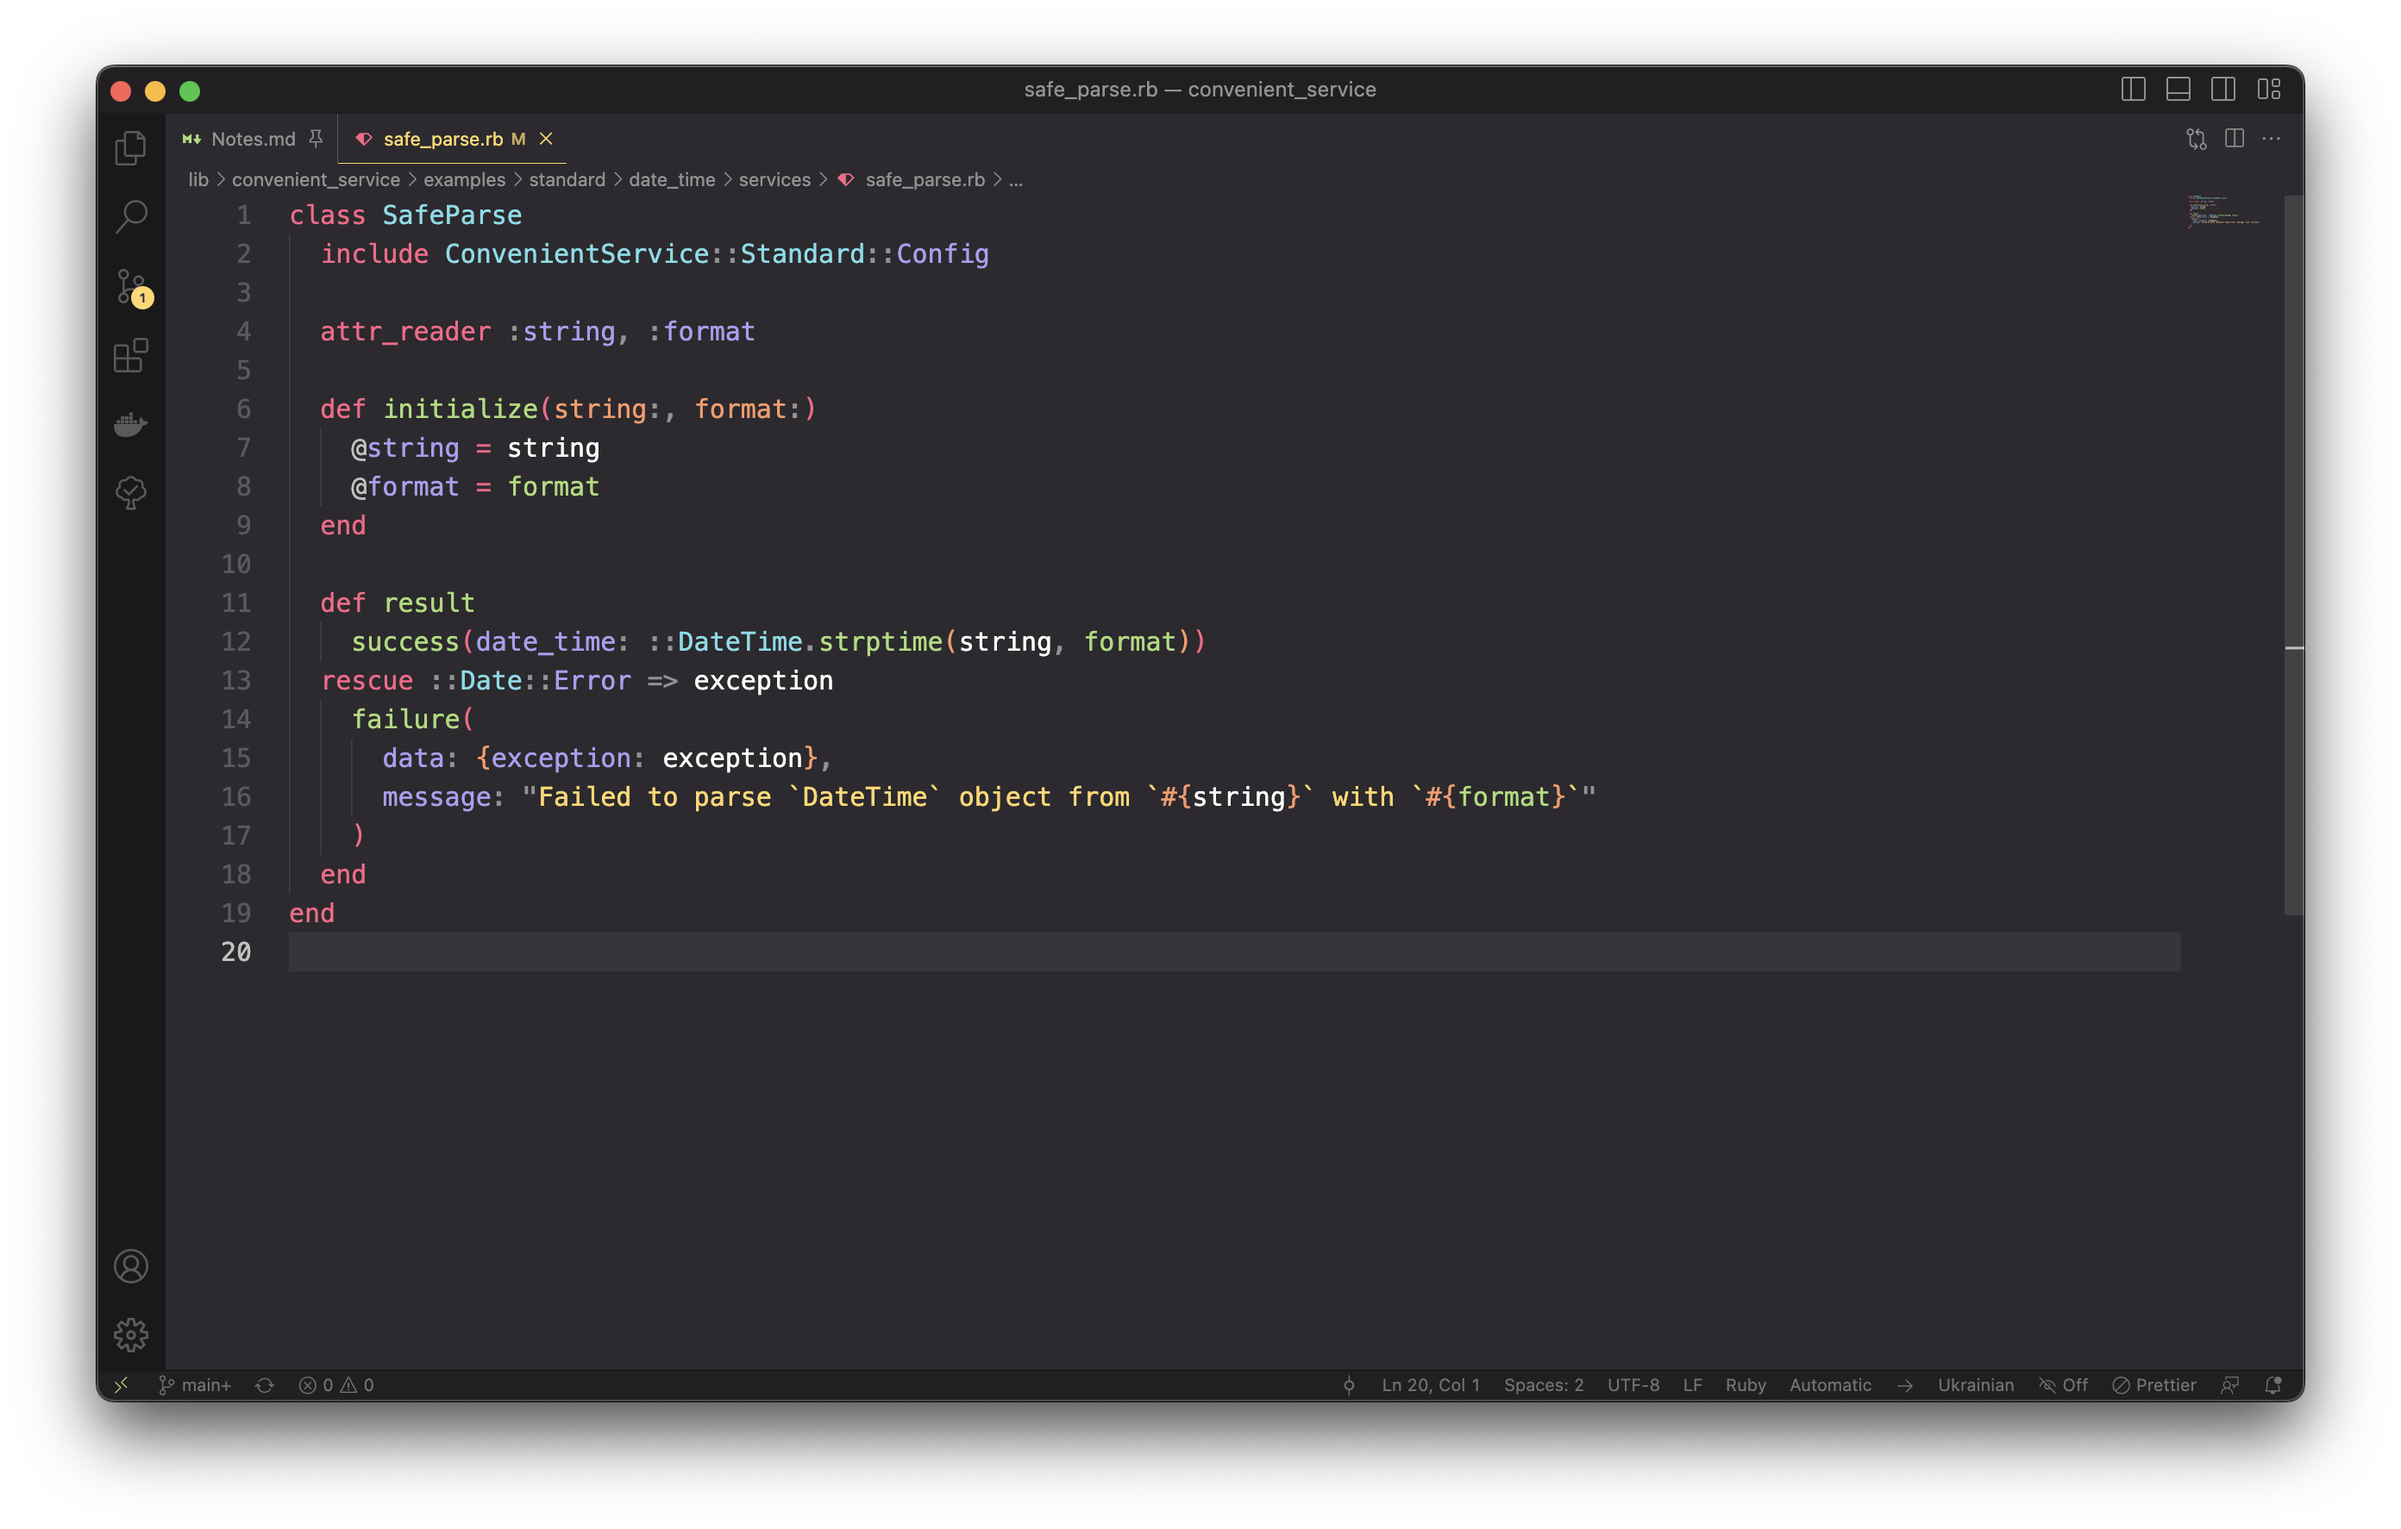
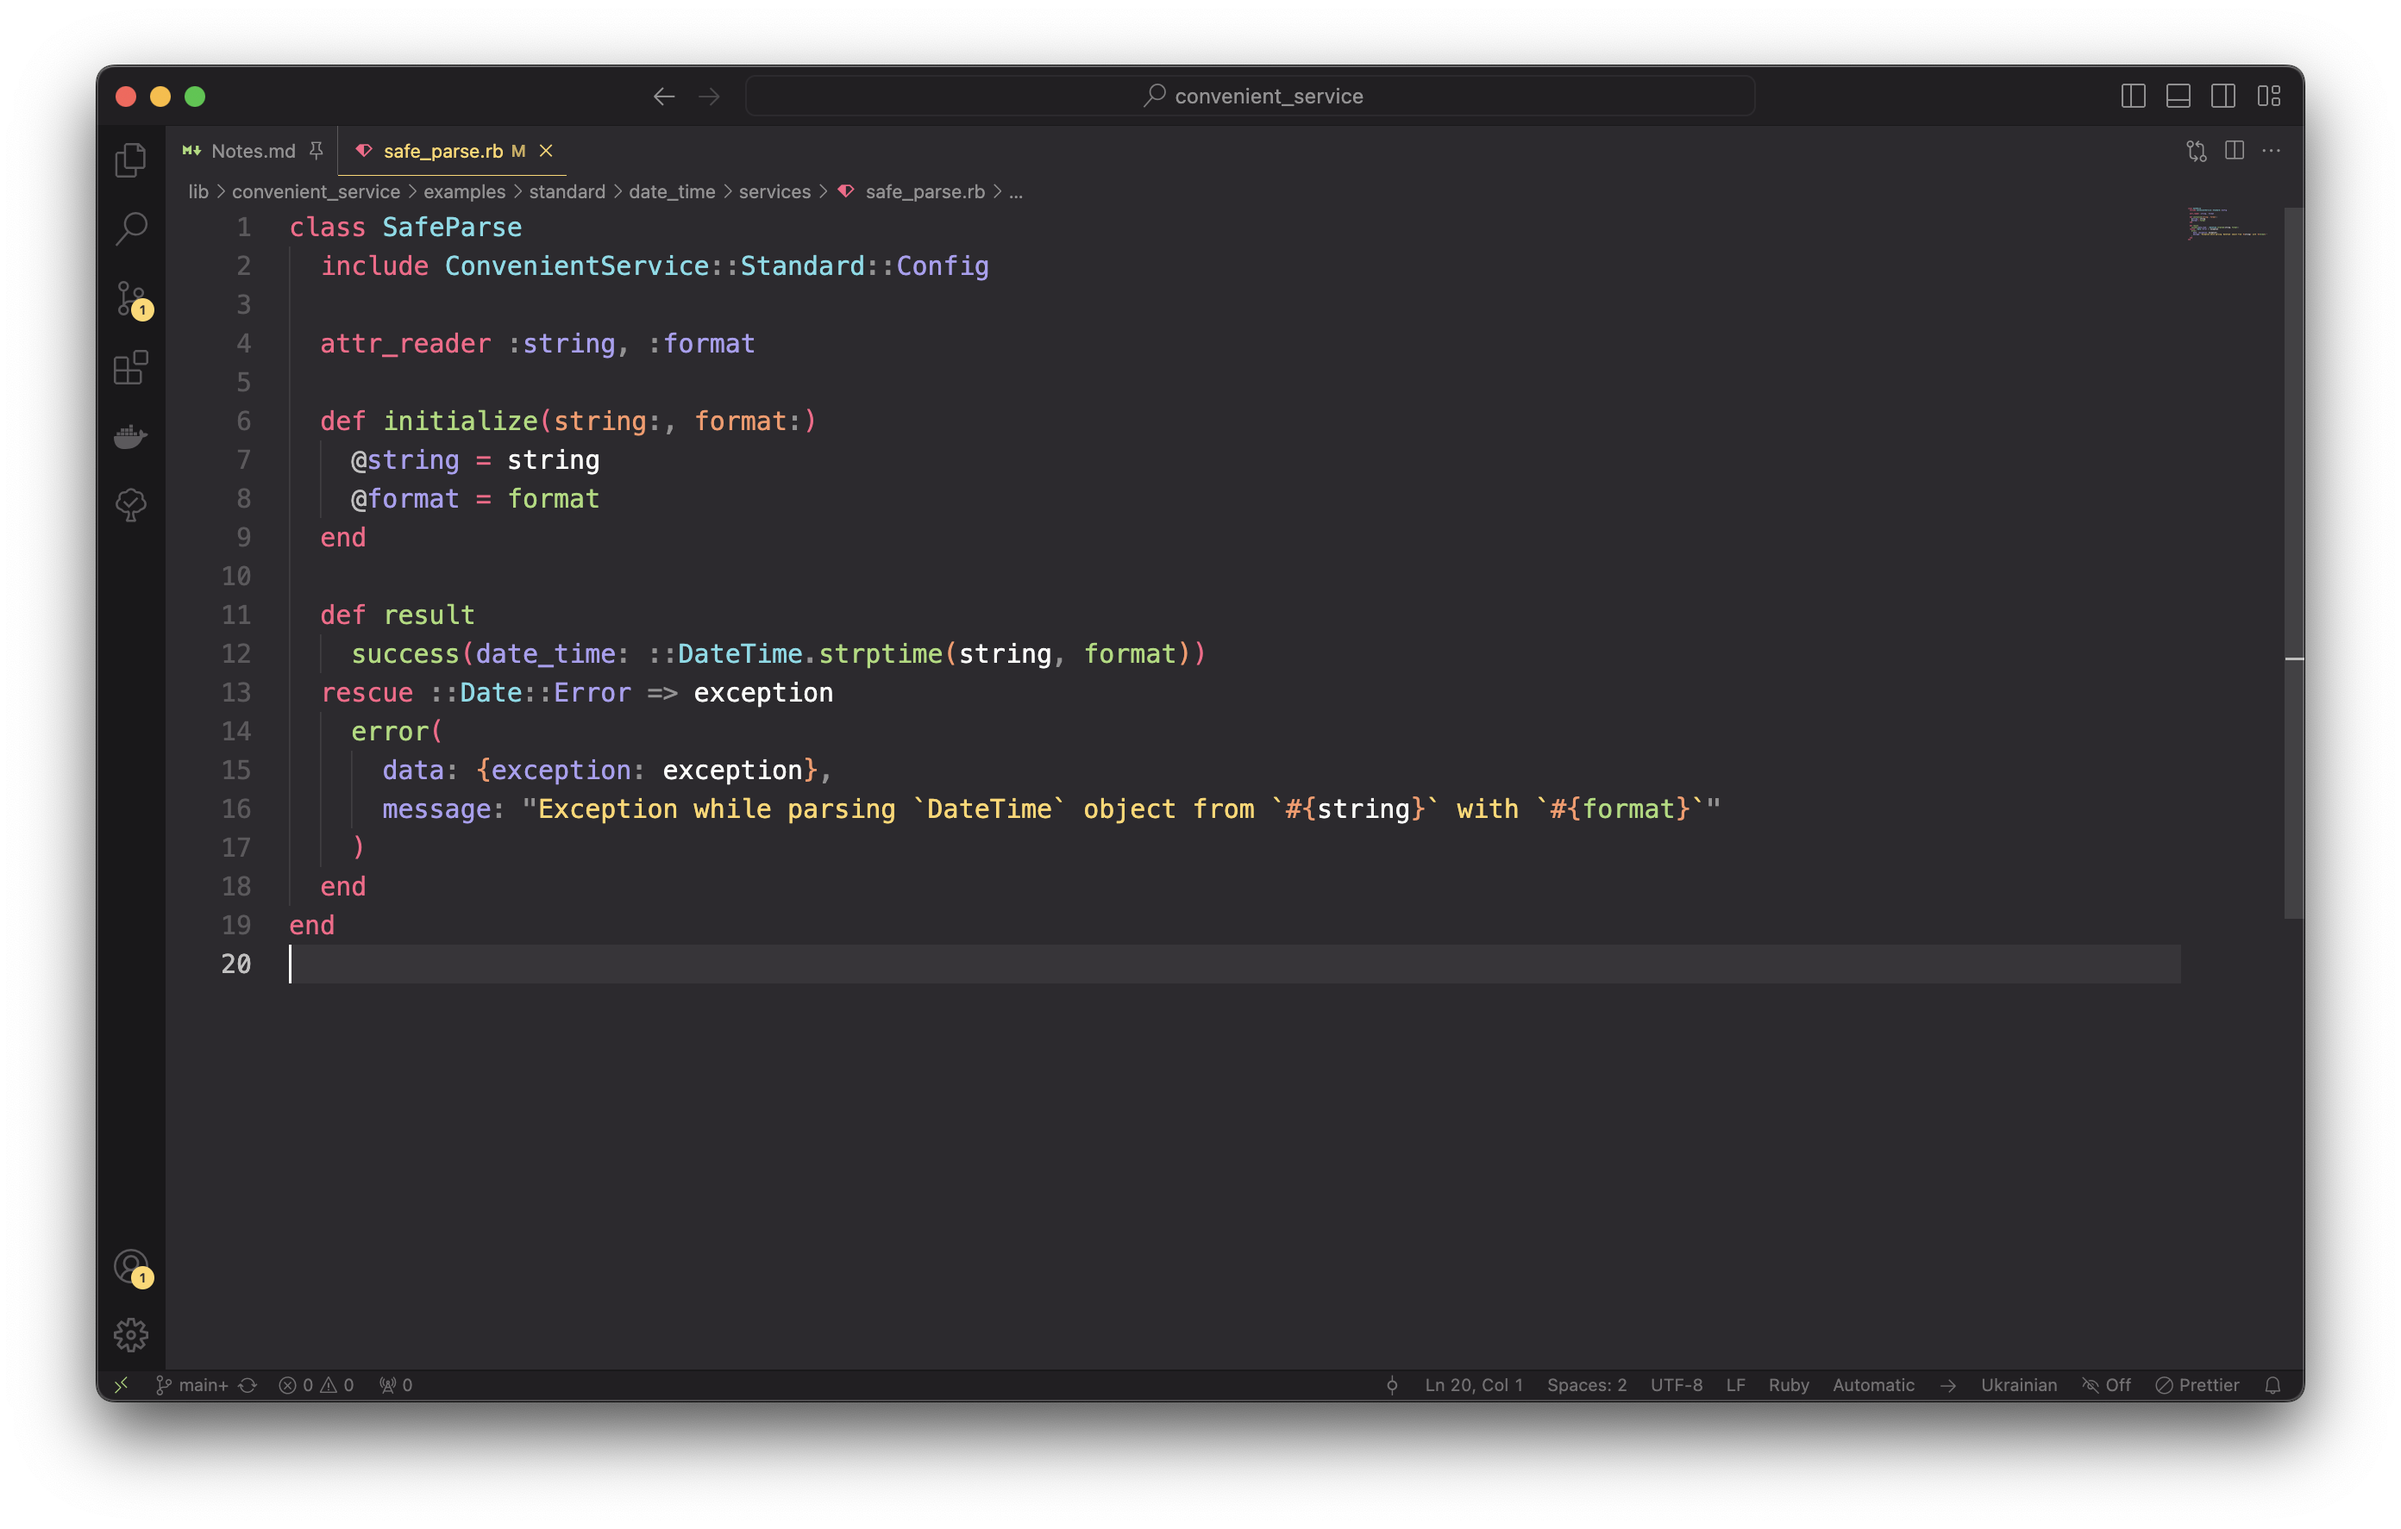
docs(all_in_one): use updated failure/error terminology

diff --git a/convenient_service/presentations/all_in_one/slides/convenient_service/4/unification.md b/convenient_service/presentations/all_in_one/slides/convenient_service/4/unification.md
@@ -116,34 +116,24 @@ result = service.result
 
 ---
 
-Results return [JSend](https://github.com/omniti-labs/jsend/blob/master/README.md)-inspired structs (1 / 2)
+Results return [JSend](https://github.com/omniti-labs/jsend/blob/master/README.md)-inspired <br> but NOT [JSend](https://github.com/omniti-labs/jsend/blob/master/README.md)-compatible structs
 
 ```ruby
 class AssertFileExists
   # ...
 
   def result
-    return failure(path: "Path is `nil`") if path.nil?
-    return failure(path: "Path is empty") if path.empty?
+    return error("Path is `nil`") if path.nil?
+    return error("Path is empty") if path.empty?
 
     if !::File.exist?(path)
-      return error("File with path `#{path}` does NOT exist")
+      return failure("File with path `#{path}` does NOT exist")
     end
 
     success
   end
 end
 ```
-
----
-
-Results return [JSend](https://github.com/omniti-labs/jsend/blob/master/README.md)-inspired structs (2 / 2)
-
-<div class="image">
-  <img src="slides/convenient_service/4/unification/jsend_result.png">
-
-  <a class="sticker" href="https://github.com/omniti-labs/jsend/blob/master/README.md" target="_blank"></a>
-</div>
 
 ---
 
@@ -154,11 +144,11 @@ class AssertFileExists
   # ...
 
   def result
-    return failure(path: "Path is `nil`") if path.nil?
-    return failure(path: "Path is empty") if path.empty?
+    return error("Path is `nil`") if path.nil?
+    return error("Path is empty") if path.empty?
 
     if !::File.exist?(path)
-      return error("File with path `#{path}` does NOT exist")
+      return failure("File with path `#{path}` does NOT exist")
     end
 
     success
@@ -170,18 +160,18 @@ end
 
 ---
 
-`error` - when service goal is NOT achieved
+`failure` - when service goal is NOT achieved <br> due to expected reason
 
 ```ruby [1,9]
 class AssertFileExists
   # ...
 
   def result
-    return failure(path: "Path is `nil`") if path.nil?
-    return failure(path: "Path is empty") if path.empty?
+    return error("Path is `nil`") if path.nil?
+    return error("Path is empty") if path.empty?
 
     if !::File.exist?(path)
-      return error("File with path `#{path}` does NOT exist")
+      return failure("File with path `#{path}` does NOT exist")
     end
 
     success
@@ -193,19 +183,18 @@ end
 
 ---
 
-`failure` - when service goal is NOT achieved due to
-invalid input
+`error` - when service goal is NOT achieved <br> due to invalid input or exception
 
 ```ruby [1,5-6]
 class AssertFileExists
   # ...
 
   def result
-    return failure(path: "Path is `nil`") if path.nil?
-    return failure(path: "Path is empty") if path.empty?
+    return error("Path is `nil`") if path.nil?
+    return error("Path is empty") if path.empty?
 
     if !::File.exist?(path)
-      return error("File with path `#{path}` does NOT exist")
+      return failure("File with path `#{path}` does NOT exist")
     end
 
     success
@@ -234,11 +223,11 @@ class AssertFileExists
   # ...
 
   def result
-    return failure(path: "Path is `nil`") if path.nil?
-    return failure(path: "Path is empty") if path.empty?
+    return error("Path is `nil`") if path.nil?
+    return error("Path is empty") if path.empty?
 
     if !::File.exist?(path)
-      return error("File with path `#{path}` does NOT exist")
+      return failure("File with path `#{path}` does NOT exist")
     end
 
     success
@@ -308,8 +297,8 @@ class ReadFileContent
   private
 
   def validate_path
-    return failure(path: "Path is `nil`") if path.nil?
-    return failure(path: "Path is empty") if path.empty?
+    return error("Path is `nil`") if path.nil?
+    return error("Path is empty") if path.empty?
 
     success
   end
@@ -342,8 +331,8 @@ class ReadFileContent
   private
 
   def validate_path
-    return failure(path: "Path is `nil`") if path.nil?
-    return failure(path: "Path is empty") if path.empty?
+    return error("Path is `nil`") if path.nil?
+    return error("Path is empty") if path.empty?
 
     success
   end
@@ -376,8 +365,8 @@ class ReadFileContent
   private
 
   def validate_path
-    return failure(path: "Path is `nil`") if path.nil?
-    return failure(path: "Path is empty") if path.empty?
+    return error("Path is `nil`") if path.nil?
+    return error("Path is empty") if path.empty?
 
     success
   end
@@ -427,7 +416,7 @@ All steps are successful - service returns its last step
 
 ---
 
-Any step is not successful - service returns that step
+Any step is NOT successful - service returns that step
 
 <div class="image">
   <img src="slides/convenient_service/4/unification/not_successful_step_result.png">
@@ -437,7 +426,7 @@ Any step is not successful - service returns that step
 
 ---
 
-Not successful step results are bubbled to the top
+NOT successful step results are bubbled to the top
 
 <div class="image">
   <img src="slides/convenient_service/4/unification/not_successful_step_result_bubbling.png">
@@ -566,7 +555,7 @@ Step definitions are converted to the service calls <br> by the rules defined in
 
 ---
 
-Steps can be tried by `try` option
+Steps can be tried by `fallback` option
 
 <div class="image">
   <img src="slides/convenient_service/4/unification/try_step.png">
@@ -576,7 +565,7 @@ Steps can be tried by `try` option
 
 ---
 
-`try` step option works when service has `try_result`
+`fallback` step option works <br> when service has `fallback_failure_result`
 
 <div class="image">
   <img src="slides/convenient_service/4/unification/try_result.png">
@@ -586,7 +575,7 @@ Steps can be tried by `try` option
 
 ---
 
-`try_result` is called when `result` is NOT successful
+`fallback_failure_result` is called <br> when `result` is NOT successful
 
 <div class="image">
   <img src="slides/convenient_service/4/unification/try_result_when_not_successful_result.png">

diff --git a/convenient_service/presentations/all_in_one/ROADMAP.md b/convenient_service/presentations/all_in_one/ROADMAP.md
@@ -1,0 +1,7 @@
+# Roadmap
+
+| Priority | Status | Goal | Notes |
+| - | - | - | - |
+| Medium | 🚧 | Link to diff between JSend and Convenient Service results | |
+
+Search for `TODO`s in the codebase for more tasks.
